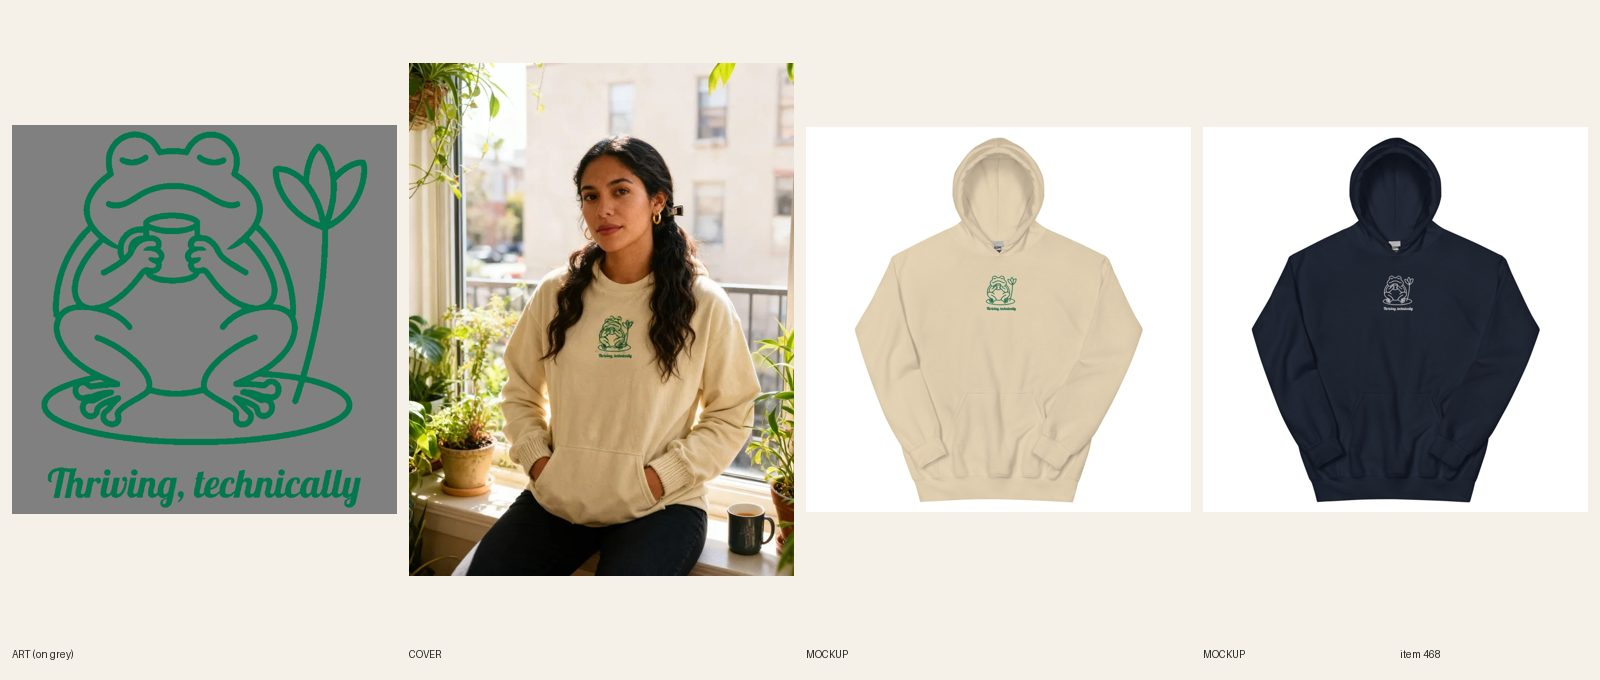
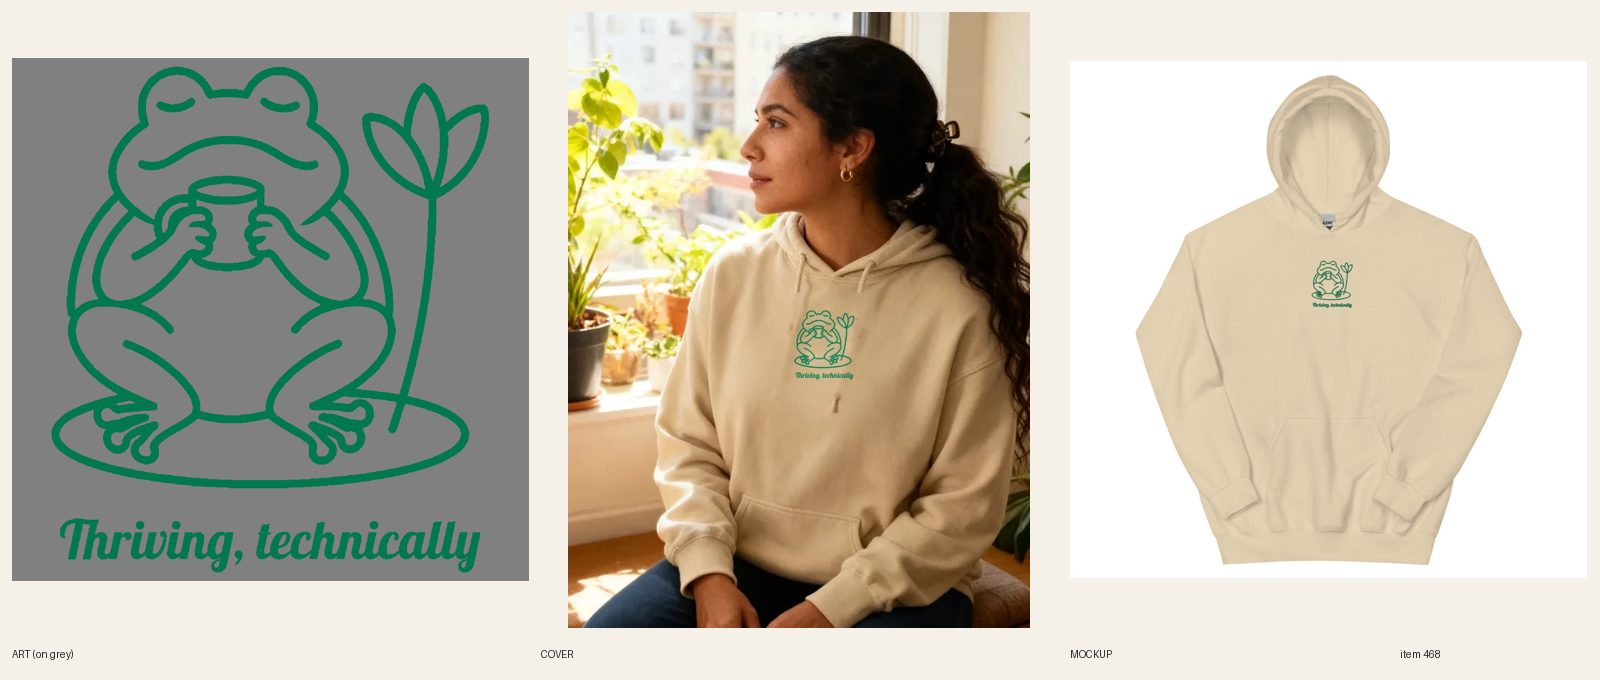
[C] review 468 frog hoodie REDO

diff --git a/docs/pipeline/468-embroidered-hoodie-thriving-technically-frog.md b/docs/pipeline/468-embroidered-hoodie-thriving-technically-frog.md
@@ -1,4 +1,4 @@
-status: REDO
+status: REVIEW
 lane: C
 type: new
 id: 468
@@ -37,3 +37,4 @@ kd: 34
 - 2026-10-17 22:28 UTC director: REDO.
   1. R6.8 (hoodie cover): the 9b retry still shows a crew neckline with no hood behind her neck. The log says there's a hood, but the sheet doesn't show one. Try a three-quarter view with the hood clearly lying behind her shoulders, and keep the Sand mockup as --design. If the model drops the hood again, composite the stitch onto a cover generated from a pose where the hood shows; never save a cover without it. Keep the true 4 in stitch scale (R4.8).
   2. (Withdrawn: the SOP "Original art, made for" line stays.)
+- 2026-10-18 01:05 UTC builder [C]: REDO done. New cover (registry #672, fal $0.06): Sand front mockup as --design, three-quarter side view, hood named bunched behind her neck: the hood and both drawcords are clearly visible, long sleeves, pouch pocket, hair clear of the stitch. The model garbled the caption again, so the exact stitch (Printful file 1088528078, Sand/kelly green) was composited onto the chest at true 4 in scale (R4.8), reads "Thriving, technically" with frog, lily bud and lily pad; the drawcord segment that crossed the stitch area is hidden under it. Alt unchanged (accurate, starts Woman).

diff --git a/docs/intake-log.md b/docs/intake-log.md
@@ -1,4 +1,5 @@
 2026-10-18 00:28 UTC — [B] REVIEW #498 Women's Christian – Embroidered Psalm 121 Mountain Crewneck (DRAFT, synced 12/12, Sand + Sport Grey, green thread; fal $0.20).
+2026-10-18 01:06 UTC — [C] REVIEW #468 Thriving, Technically embroidered frog hoodie REDO (hood clearly visible, stitch composited on cover; fal $0.06).
 2026-10-18 00:59 UTC — [C] REVIEW #450 Shiny Object Syndrome crow hoodie REDO (woman now in the hoodie; man shows no hood: director call; copy and alt fixed; fal $0.06).
 2026-10-18 00:25 UTC — [B] REVIEW #492 Women's Nurse – Embroidered Night Shift Silly Goose Crewneck (DRAFT, synced 12/12, Sand + Sport Grey, navy thread; fal $0.10).
 2026-10-18 00:51 UTC — [C] REVIEW #364 Orange Slice Manager zip hoodie REDO (hood visible, print composited on cover, Navy back mockup added; fal $0.06).
